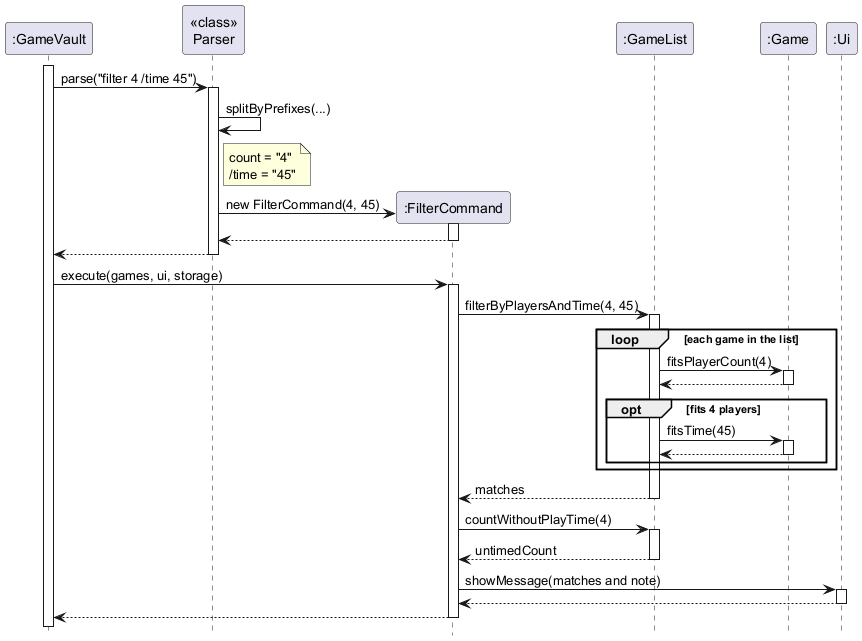
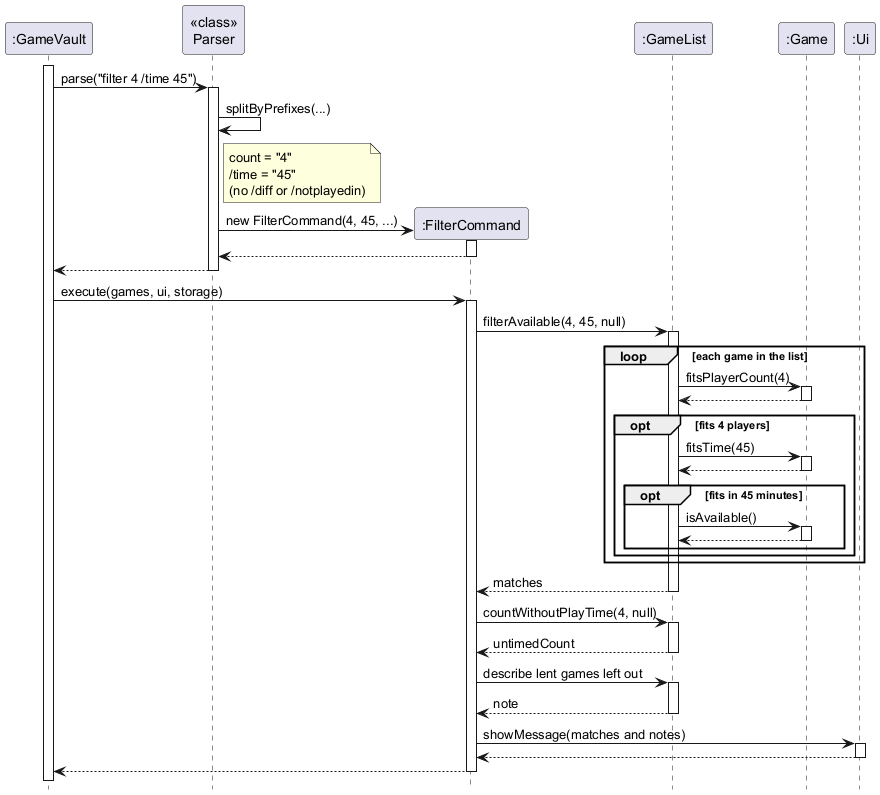
Bring the filter DG section and PPP up to date
The filter section and its sequence diagram still described methods
that filter no longer uses. Describe filterAvailable, isAvailable and
the notes instead, and how prefixes are parsed. Add lending and
difficulty levels, their DG sections and my reviews to my PPP.

diff --git a/docs/team/yy261.md b/docs/team/yy261.md
@@ -3,10 +3,11 @@
 ## Overview
 
 GameVault is a command-line app for people who host game nights for friends or CCAs. It keeps track of a game
-collection and quickly finds games that suit the group that turned up, by player count, play time and tags.
+collection and quickly finds games that suit the group that turned up, by player count, play time, difficulty,
+tags and more.
 
-My main area was **finding games that fit tonight's group**: filtering the collection by player count and by the
-time available, and the play time data that this depends on.
+My main area was **finding games that fit tonight's group**: filtering by player count, play time and difficulty,
+keeping games that are not on the shelf out of suggestions, and the shared prefix parsing that every command uses.
 
 ## Summary of Contributions
 
@@ -17,48 +18,67 @@ time available, and the play time data that this depends on.
 ### Enhancements implemented
 
 * **Filter by player count** (`filter COUNT`), v1.0 ([PR #18](https://github.com/AY2627S1-CS2113-T11-4/tp/pull/18))
-  * What it does: shows only the games whose player range includes the number of people present,
-    so the host does not have to check every box on the shelf.
-  * Added `Game#fitsPlayerCount` and `GameList#filterByPlayers`, with JUnit tests for boundary cases
-    (the minimum and maximum themselves, games for an exact number of players, and no matches).
+  * Shows only the games whose player range includes the number of people present.
+  * Added `Game#fitsPlayerCount` and `GameList#filterByPlayers`, with JUnit tests for boundary cases.
 
 * **Play time, and filtering by it** (`add ... /time MINUTES`, `filter COUNT /time MINUTES`), v2.0
   ([PR #25](https://github.com/AY2627S1-CS2113-T11-4/tp/pull/25))
-  * What it does: lets the user record how long each game takes, and find games for the group that fit in the
-    time available, e.g. `filter 4 /time 45`.
-  * Games with no play time recorded are left out of a timed filter (so every game shown is known to fit),
-    and the app says how many were left out, so the user knows why a game they expected is missing.
-  * Play time is saved as an optional fourth field in the data file, so data files saved by v1.0 still load.
-    I chose this format so that teammates could later add further optional fields (e.g. tags) without breaking
-    old files.
-  * This feature is the base that later features build on: `pick /time` (random game that fits the time) and
-    `sort time` (shortest games first) both use the play time I added.
+  * Finds games for the group that fit in the time available, e.g. `filter 4 /time 45`.
+  * Games with no play time recorded are left out of a timed filter, and the app says how many, so the user
+    knows why a game they expected is missing. Old data files without a play time still load.
+  * Later features build on it: `pick /time`, `sort time` and `edit /time` all use the play time I added.
 
-* **Shared prefix parsing** (`Parser#splitByPrefixes`), v2.0
-  * Replaced the earlier `indexOf`-based parsing of `add` with one method that splits arguments by prefixes.
-    Prefixes now only count as separate words, can be given in any order, and cannot be repeated.
-  * This fixed a bug where a title such as `Foo/minimal` was split at `/min`, and gave clearer errors for repeated
-    prefixes. The method is now used by `add`, `filter`, `pick` and `edit`, so all commands follow the same rules.
+* **Lending games to friends** (`lend INDEX /to NAME`, `return INDEX`, `lentout`), v2.1
+  ([PR #50](https://github.com/AY2627S1-CS2113-T11-4/tp/pull/50))
+  * Records who has a game, and leaves lent games out of `filter`, `filter /tag` and `pick`, naming them and their
+    borrowers in a note.
+  * Added the shared availability check (`Game#isAvailable()`, `GameList#filterAvailable...`). A teammate's
+    "unavailable game" feature (#61) built directly on it, so both features share one definition of "available".
+  * Reworked the design after team review: switched to the shared named-field data format, kept the general
+    `filterByPlayers` unchanged, moved the shared note-building into `GameList`, and gave each command its own tests.
+
+* **Difficulty levels** (`/diff easy|medium|hard` on `add`, `edit`, `filter`, `pick`), v2.1
+  ([PR #65](https://github.com/AY2627S1-CS2113-T11-4/tp/pull/65))
+  * Lets a host avoid games too complicated for new players, e.g. `filter 4 /time 45 /diff easy`.
+  * The notes that explain missing games (no play time, no difficulty, lent out) only count games that could
+    have matched the other conditions, so they never point at a game the user would not have wanted anyway.
+
+* **Shared prefix parsing** (`Parser#splitByPrefixes`), v2.0 onwards
+  * One method that splits arguments by prefixes, now used by every command that takes prefixes. Prefixes only
+    count as separate words, can be given in any order and in any case (e.g. `/TIME`), and cannot be repeated.
+  * Fixed a bug where a title such as `Foo/minimal` was split at `/min`.
 
 ### Contributions to the User Guide
 
-* Wrote the sections on finding games for your group (`filter`, including `/time`) and adding a game (`add`).
-* Added the notes on the command format (parameters in `UPPER_CASE`, optional parameters in square brackets).
-* Documented the optional `TIME` field in the section on editing the data file, and updated the help output and
-  Command Summary.
+* Wrote the sections on adding a game (`add`), finding games for your group (`filter`, including `/time` and
+  `/diff`), lending (`lend`, `return`, `lentout`) and the notes on the command format.
+* Added `/diff` to `pick` and `edit`, and documented the play time, `lent` and `difficulty` fields of the data file.
 
 ### Contributions to the Developer Guide
 
-* Wrote the section *Filtering games by player count and play time*, including:
-  * a sequence diagram of `filter 4 /time 45` (`FilterSequence.puml`),
-  * how play time is stored and how prefixes are parsed, and
-  * design considerations (how to treat games with no play time, how to represent a missing play time,
-    and one `filter` command vs. several) and possible future improvements.
+* Wrote three feature sections, each with design considerations and possible future improvements, using three
+  types of UML diagrams:
+  * *Filtering games by player count and play time*, with a **sequence diagram** of `filter 4 /time 45`,
+    and how prefixes are parsed.
+  * *Lending games to friends*, with a **state diagram** of a game being lent and returned, and a
+    **sequence diagram** of `lend 2 /to Alice`.
+  * *Difficulty levels*, with an **activity diagram** of how `filter` decides what to do with each game.
 
 ### Contributions to team-based tasks
 
-* Merged teammates' pull requests, e.g. the edit feature's DG section
-  ([PR #27](https://github.com/AY2627S1-CS2113-T11-4/tp/pull/27)) and the data-file loading DG section
-  ([PR #30](https://github.com/AY2627S1-CS2113-T11-4/tp/pull/30)).
-* Coordinated the data-file format with the teammate implementing tags, so that play time and tags could both
-  be optional fields.
+* Merged teammates' pull requests, e.g. [PR #27](https://github.com/AY2627S1-CS2113-T11-4/tp/pull/27) and
+  [PR #30](https://github.com/AY2627S1-CS2113-T11-4/tp/pull/30).
+* Resolved the merge of several teammates' v2.1 features (lending, rating, unavailable, borrowing, last played)
+  with difficulty levels, keeping every feature working together.
+
+### Review/mentoring contributions
+
+* Reviewed teammates' pull requests, e.g. the unavailable-games feature
+  ([PR #61](https://github.com/AY2627S1-CS2113-T11-4/tp/pull/61)), suggesting one availability check that covers
+  both lent and unavailable games, and a consistent display for both, and the last-played feature
+  ([PR #63](https://github.com/AY2627S1-CS2113-T11-4/tp/pull/63)), on consistent notes and `list` vs. `sort` output.
+
+### Contributions beyond the project team
+
+* Reviewed another team's Developer Guide ([MishMash, W13-4](https://github.com/NUS-CS2113-AY2627-S1/tp/pull/15)),
+  e.g. on UML activity-diagram guard notation and requirements that contradicted the rest of the guide.

diff --git a/docs/DeveloperGuide.md b/docs/DeveloperGuide.md
@@ -746,10 +746,11 @@ in the time we have?* For example, `filter 4 /time 45` shows the games for 4 pla
 The feature involves these classes:
 
 * `Parser` turns the user's input into a `FilterCommand`.
-* `FilterCommand` holds the player count and the optional time limit, and shows the results.
+* `FilterCommand` holds the player count and the optional conditions (time limit, difficulty level and how recently
+  the game may have been played), and shows the results.
 * `GameList` picks out the matching games, asking each `Game` whether it fits.
-* `Game` stores an optional play time and knows whether it fits a player count (`fitsPlayerCount`) and a time
-  limit (`fitsTime`).
+* `Game` stores an optional play time and knows whether it fits a player count (`fitsPlayerCount`), a time
+  limit (`fitsTime`) and whether it can be played tonight (`isAvailable`, i.e. not lent out or marked unavailable).
 
 The sequence diagram below shows what happens when the user enters `filter 4 /time 45`.
 
@@ -759,14 +760,18 @@ The sequence diagram below shows what happens when the user enters `filter 4 /ti
    `Parser#parseFilter(...)`.
 2. `parseFilter` uses `Parser#splitByPrefixes(...)` to split the arguments into the text before the first prefix
    (the player count, `4`) and the text after each prefix (`/time` → `45`). Both are checked to be whole numbers of
-   at least 1. If `/time` is not given, `FilterCommand(4)` is created, which means "no time limit".
+   at least 1. The optional `/diff` and `/notplayedin` parts are read in the same way (see
+   [Difficulty levels](#difficulty-levels) and [Showing when games were last played](#showing-when-games-were-last-played));
+   here they are not given, so the `FilterCommand` has no level and no day limit.
    (If `/tag` is given instead, a `FilterTagCommand` is created; see the tagging feature.)
-3. `GameVault` calls `FilterCommand#execute(...)`, which asks `GameList#filterByPlayersAndTime(4, 45)` for the
-   matching games. A game matches if `Game#fitsPlayerCount(4)` and `Game#fitsTime(45)` are both true.
-   The order of the collection is kept, and the collection itself is not changed.
-4. `FilterCommand` then calls `GameList#countWithoutPlayTime(4)` to count the games that fit 4 players but were
-   left out only because they have no play time recorded.
-5. `FilterCommand` passes the matches and, if that count is above 0, a short note to `Ui#showMessage(...)`:
+3. `GameVault` calls `FilterCommand#execute(...)`, which asks `GameList#filterAvailable(4, 45, null)` for the
+   matching games. A game matches if `Game#fitsPlayerCount(4)`, `Game#fitsTime(45)` and `Game#isAvailable()` are all
+   true (`null` means any difficulty level). The order of the collection is kept, and the collection itself is not
+   changed.
+4. `FilterCommand` then calls `GameList#countWithoutPlayTime(4, null)` to count the available games that fit 4 players
+   but were left out only because they have no play time recorded. It also asks `GameList` for a note naming any lent
+   games that would otherwise have matched (see [Lending games to friends](#lending-games-to-friends)).
+5. `FilterCommand` passes the matches and any notes to `Ui#showMessage(...)`:
 
 ```
 Games that fit 4 players in 45 minutes or less:
@@ -785,10 +790,13 @@ a separate word, i.e. it has a space (or the start or end of the input) on both 
 * the prefixes can be given in any order, e.g. `add Catan /time 60 /max 4 /min 3`,
 * a title such as `Foo/minimal` is not split at `/min`, and
 * giving the same prefix twice (e.g. `filter 4 /time 30 /time 60`) is rejected with a clear error,
-  instead of one of the values being silently ignored.
+  instead of one of the values being silently ignored, and
+* prefixes are not case-sensitive, like command words, so `/TIME 30` works the same as `/time 30`. The pattern is
+  built with `Pattern.CASE_INSENSITIVE`, and each prefix found is stored in lower case so callers can look it up with
+  the prefix constants. Each prefix is wrapped in `Pattern.quote(...)`, so it is matched literally.
 
-The same method is used by `add`, `edit`, `pick` and the `/tag` form of `filter`, so all commands follow the same
-rules.
+The same method is used by every command that takes prefixes (`add`, `edit`, `filter`, `pick`, `lend`, `log`,
+`unavailable` and `borrow`), so all commands follow the same rules.
 
 #### Design considerations
 
